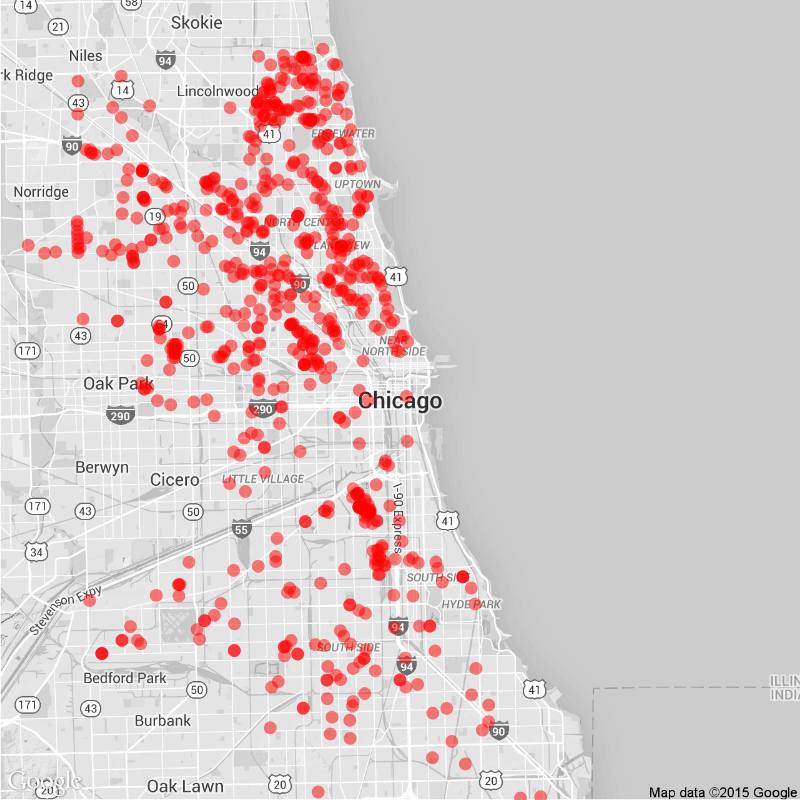
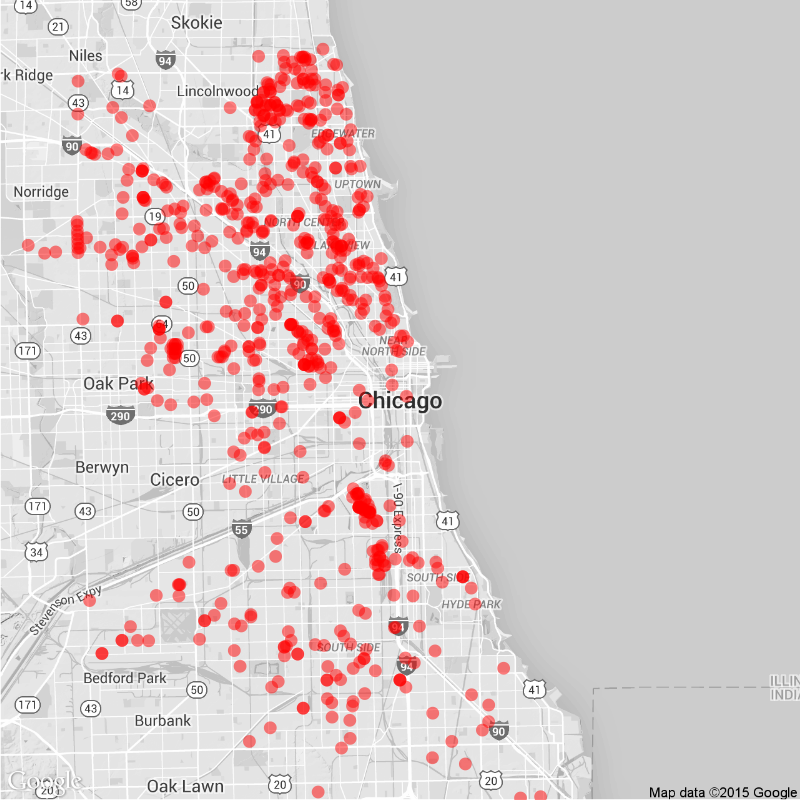
Daily Maps

diff --git a/daily.md b/daily.md
@@ -15,22 +15,22 @@ tags: Chicago NYC weekly daily rats
 
 ### Daily
 
-Yesterday (May 15), there were 121 calls to Chicago's 311 line about rats.
+Yesterday (May 16), there were 47 calls to Chicago's 311 line about rats.
 ![Chicago rat calls to 311 weekly map]({{ site.cityimages }}/daily/Chicago_Rat_Map_Daily.png)
 
 ### Weekly
-Between May 09 and May 15, there were 711 calls to Chicago's 311 line about rats. The average number of weekly calls for this time of year is 706.
+Between May 10 and May 16, there were 710 calls to Chicago's 311 line about rats. The average number of weekly calls for this time of year is 706.
 ![Chicago rat calls to 311 weekly map]({{ site.cityimages }}/daily/Chicago_Rat_Map_Weekly.png)
 ***
 # New York City <a id="nyc"><a>
 
 ### Daily
 
-Yesterday (May 15), there were 0 calls to New York City's 311 line about rats.
+Yesterday (May 16), there were 0 calls to New York City's 311 line about rats.
 ![NYC rat calls to 311 weekly map]({{ site.cityimages }}/daily/NYC_Rat_Map_Daily.png)
 
 ### Weekly
-Between May 09 and May 15, there were 0 calls to New York City's 311 line about rats. The average number of weekly calls for this time of year is 259.
+Between May 10 and May 16, there were 0 calls to New York City's 311 line about rats. The average number of weekly calls for this time of year is 259.
 ![NYC rat calls to 311 weekly map]({{ site.cityimages }}/daily/NYC_Rat_Map_Weekly.png)
 
 Each red dot represents one call about a rat seen in that location. The dots are transparent, so multiple calls from one location will be seen as a solid dot. The usual caveats apply: more calls do not necessarily mean that there are more rats in that location than other parts of the city. A cluster of dots could indicate that one resident is unusually vocal about rodents in his or her neighborhood. Also, more densely populated neighborhoods tend to make more calls to 311.
